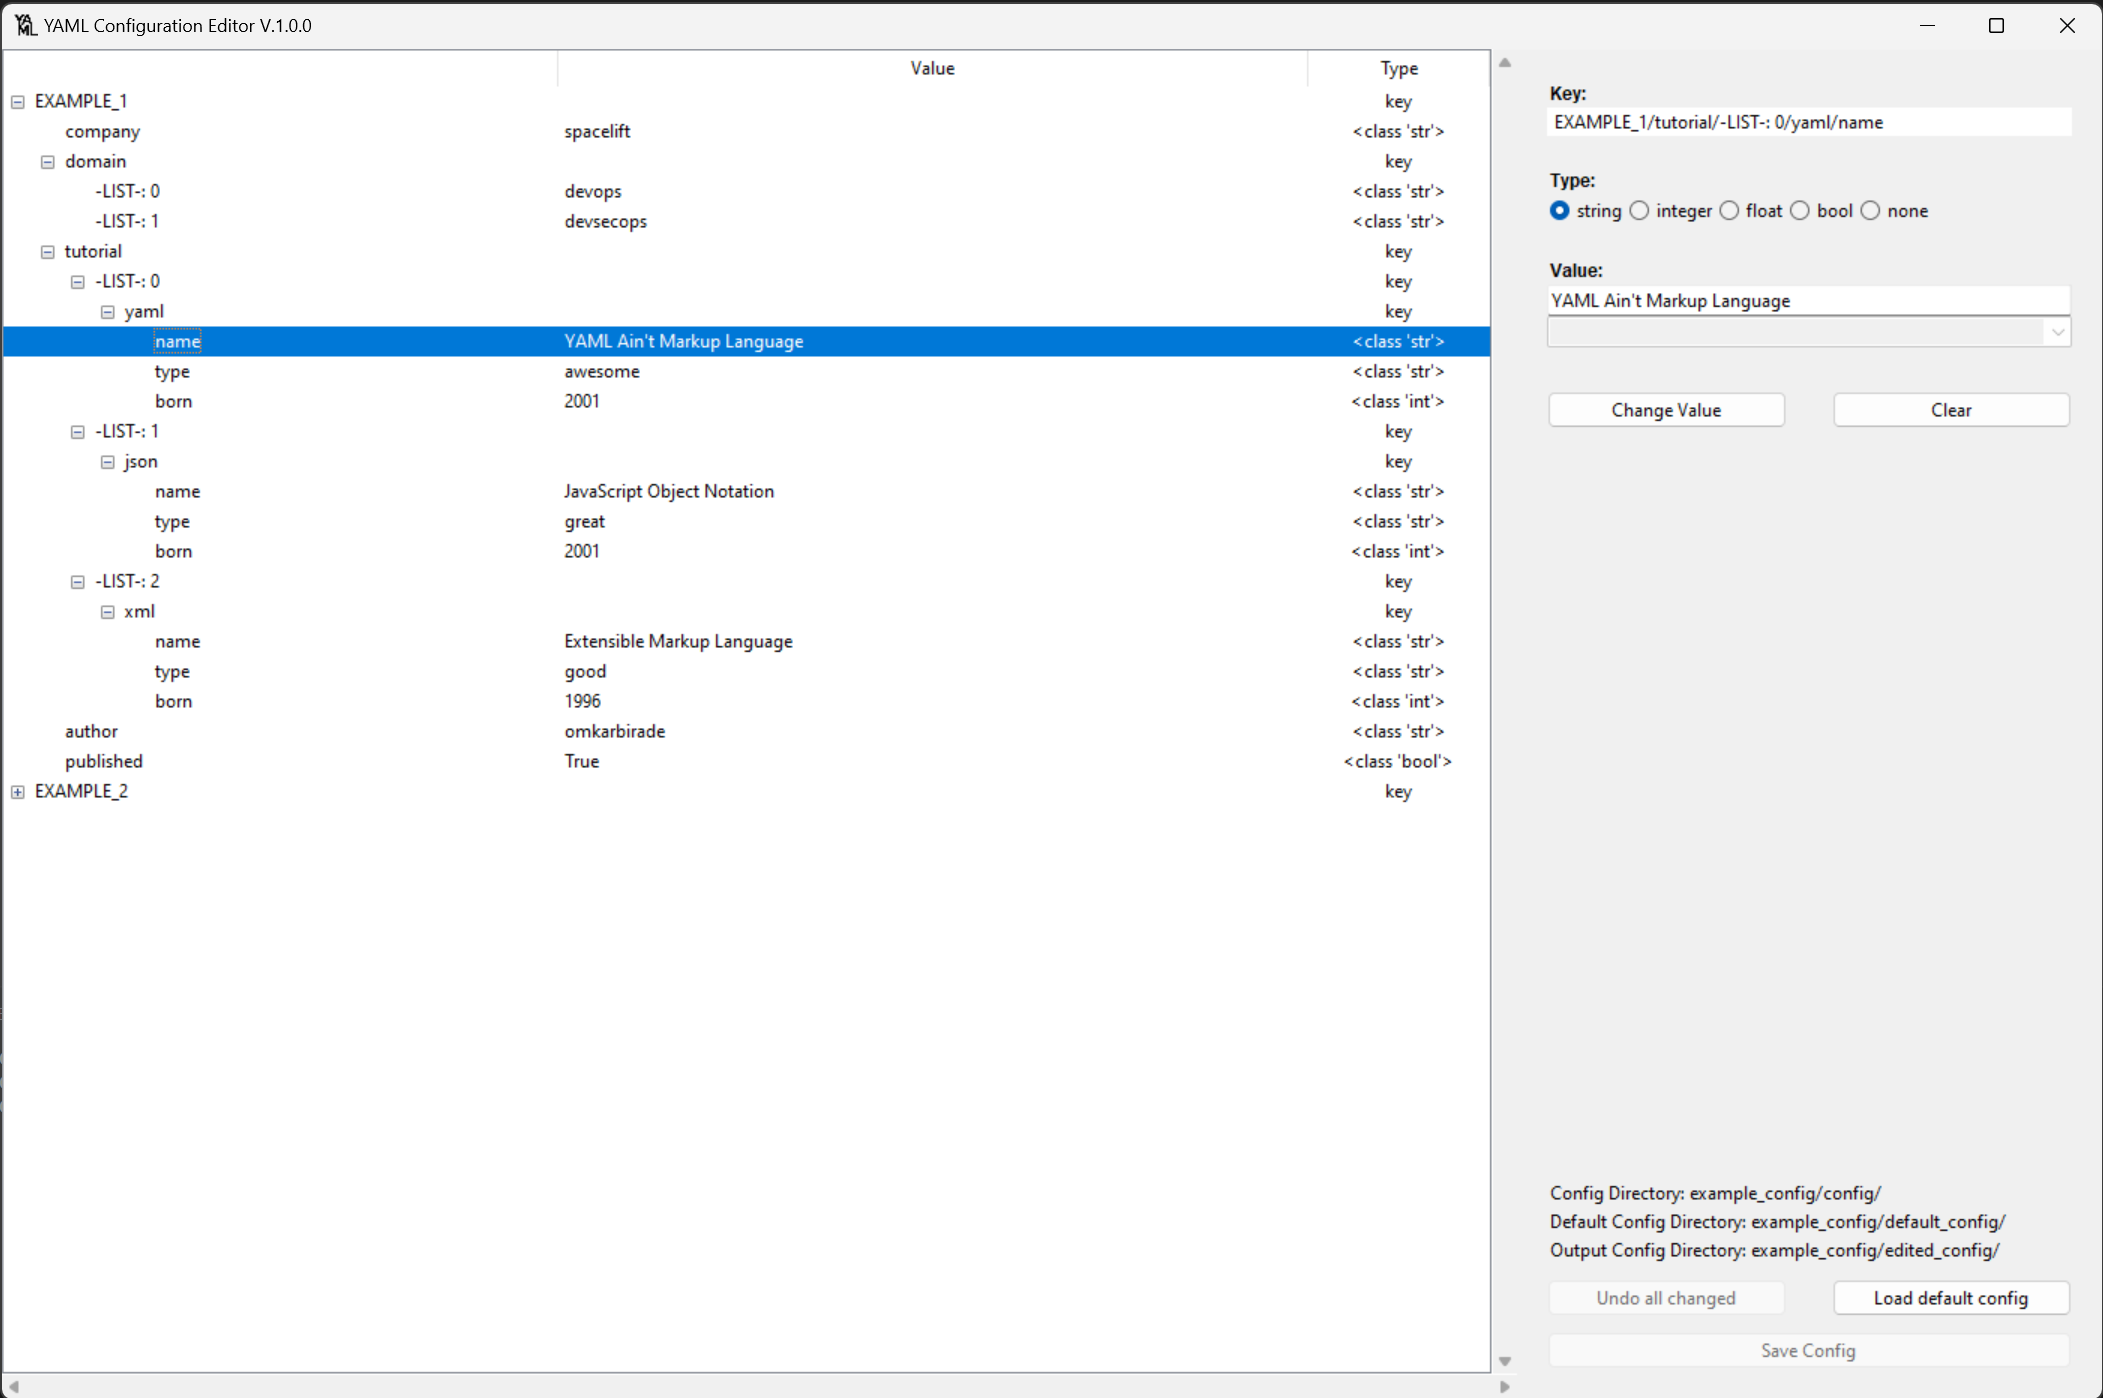
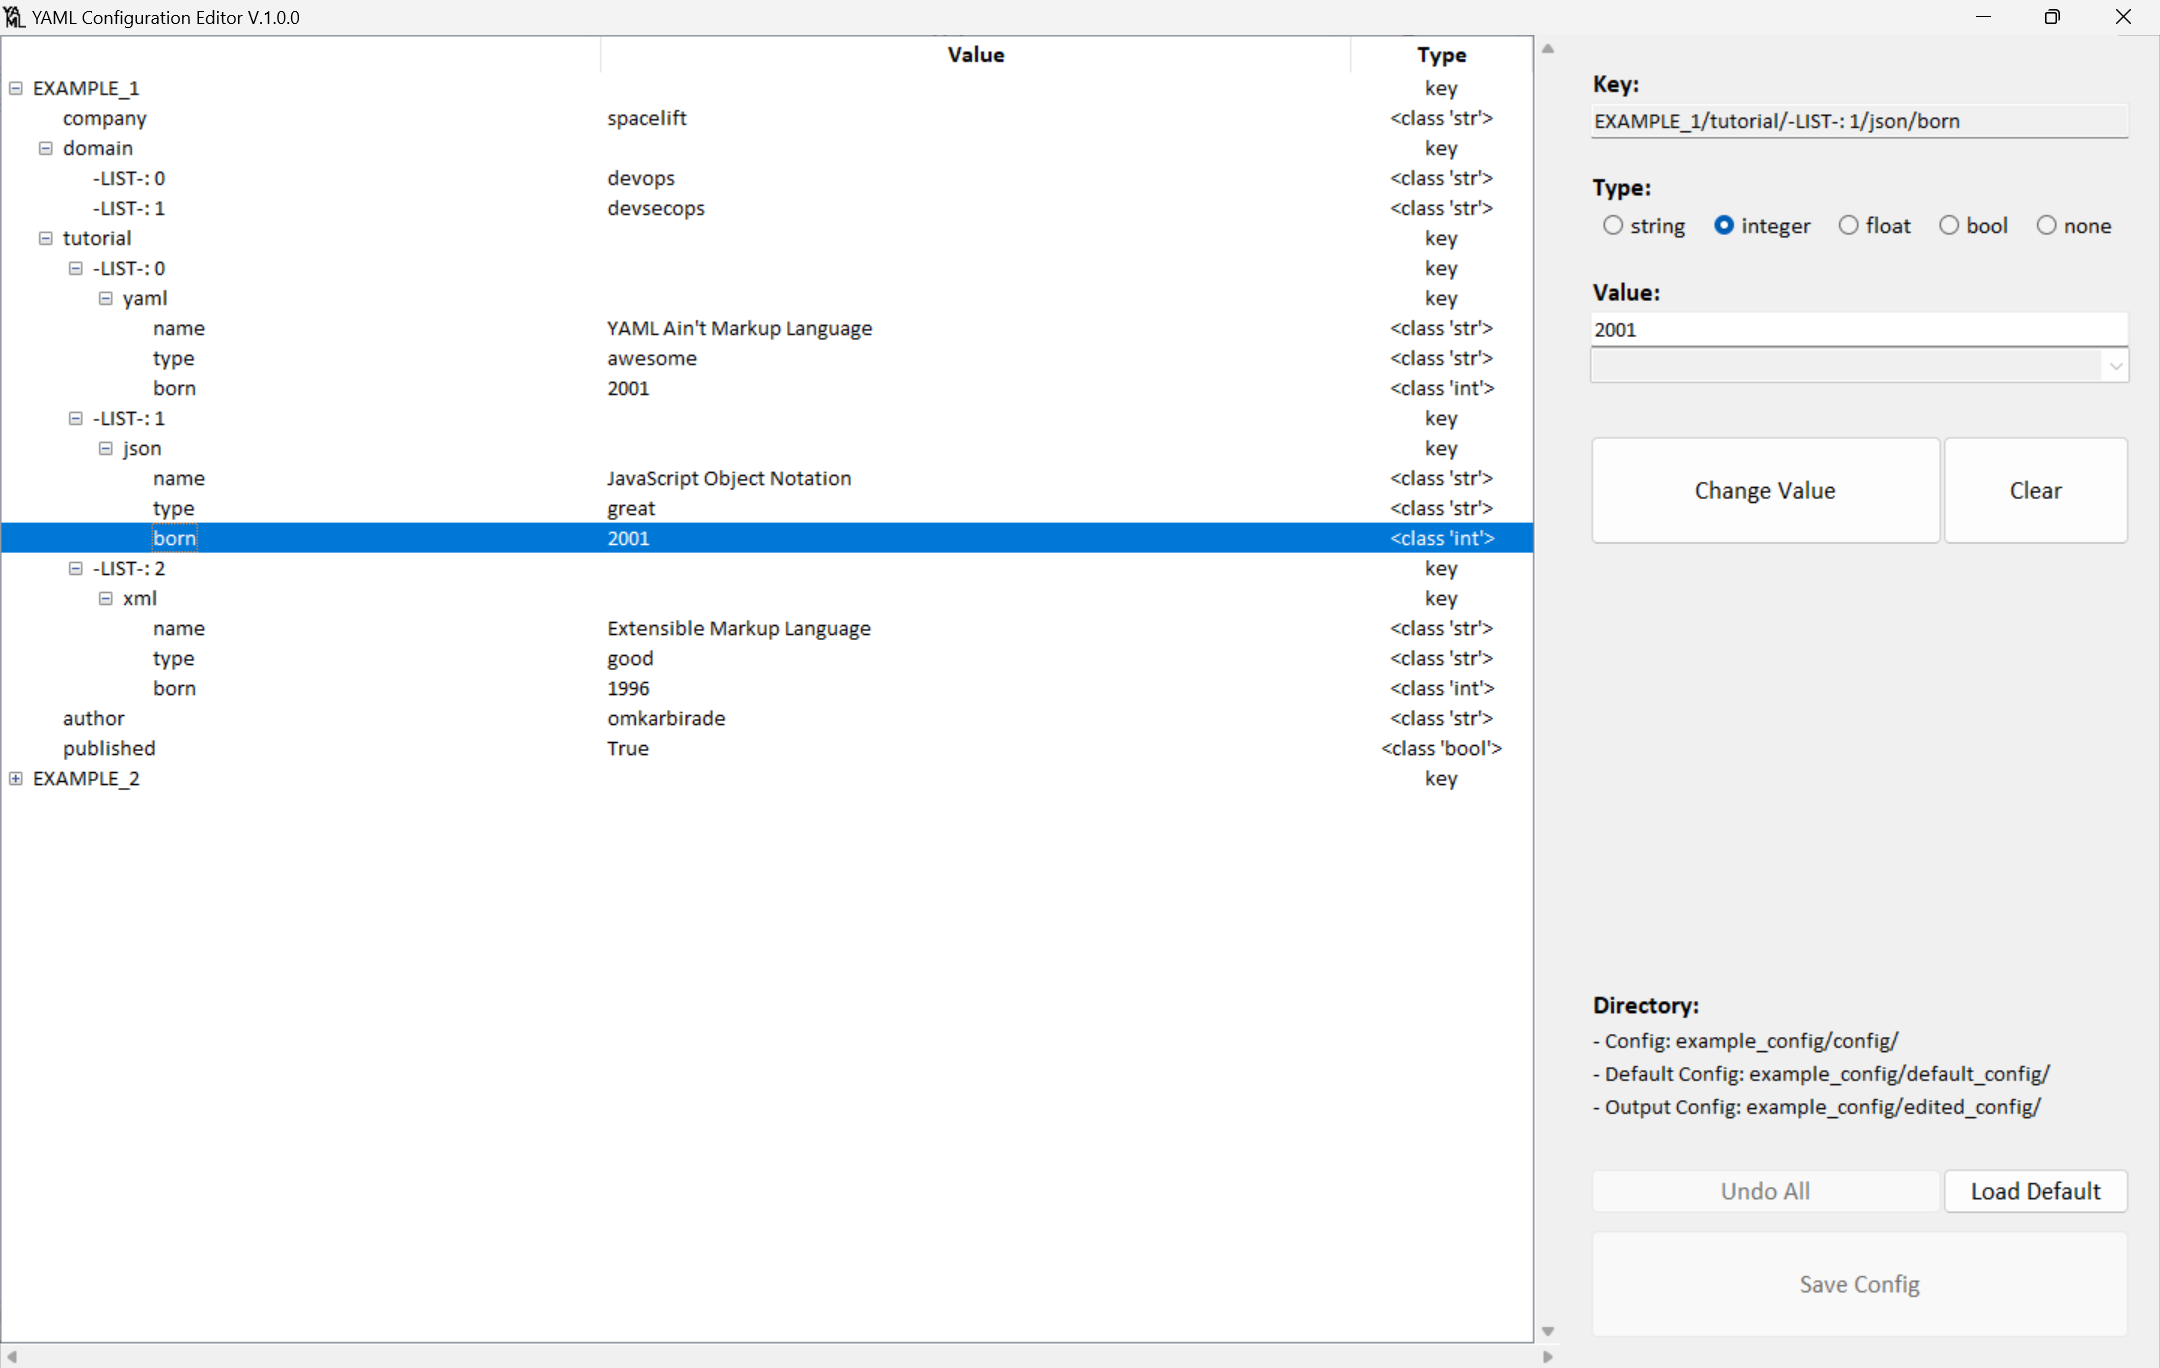
Update GUI

diff --git a/config_editor/config_editor.py b/config_editor/config_editor.py
@@ -238,18 +238,25 @@ class ConfigEditor(tk.Tk):
                                          style='big.TButton')
         self.btn_delete_key['width'] = 120
 
-        self.lab_config_dir = ttk.Label(self.frm_edit,
-                                        text=f'Config Directory: {self._config_dir}',
+        self.frm_dir_status = ttk.Frame(self.frm_edit)
+
+        self.lab_topic_dir = ttk.Label(self.frm_dir_status,
+                                       text='Directory: ',
+                                       anchor=tk.W,
+                                       style='bigbold.TLabel')
+
+        self.lab_config_dir = ttk.Label(self.frm_dir_status,
+                                        text=f'- Config: {self._config_dir}',
                                         anchor=tk.W,
                                         style='big.TLabel')
 
-        self.lab_default_config_dir = ttk.Label(self.frm_edit,
-                                                text=f'Default Config Directory: {self._default_config_dir}',
+        self.lab_default_config_dir = ttk.Label(self.frm_dir_status,
+                                                text=f'- Default Config: {self._default_config_dir}',
                                                 anchor=tk.W,
                                                 style='big.TLabel')
 
-        self.lab_output_config_dir = ttk.Label(self.frm_edit,
-                                               text=f'Output Config Directory: {self._output_config_dir}',
+        self.lab_output_config_dir = ttk.Label(self.frm_dir_status,
+                                               text=f'- Output Config: {self._output_config_dir}',
                                                anchor=tk.W,
                                                style='big.TLabel')
 
@@ -305,9 +312,11 @@ class ConfigEditor(tk.Tk):
         self.btn_undo_all.pack(side=tk.LEFT)
         self.btn_reset.pack(side=tk.RIGHT)
 
-        self.lab_output_config_dir.pack(side=tk.BOTTOM, anchor=tk.W)
-        self.lab_default_config_dir.pack(side=tk.BOTTOM, anchor=tk.W)
-        self.lab_config_dir.pack(side=tk.BOTTOM, anchor=tk.W)
+        self.frm_dir_status.pack(side=tk.BOTTOM, fill=tk.X, pady=20)
+        self.lab_topic_dir.pack(side=tk.TOP, anchor=tk.W)
+        self.lab_config_dir.pack(side=tk.TOP, anchor=tk.W)
+        self.lab_default_config_dir.pack(side=tk.TOP, anchor=tk.W)
+        self.lab_output_config_dir.pack(side=tk.TOP, anchor=tk.W)
 
         # self.btn_delete_key.pack(side=tk.BOTTOM)
 
